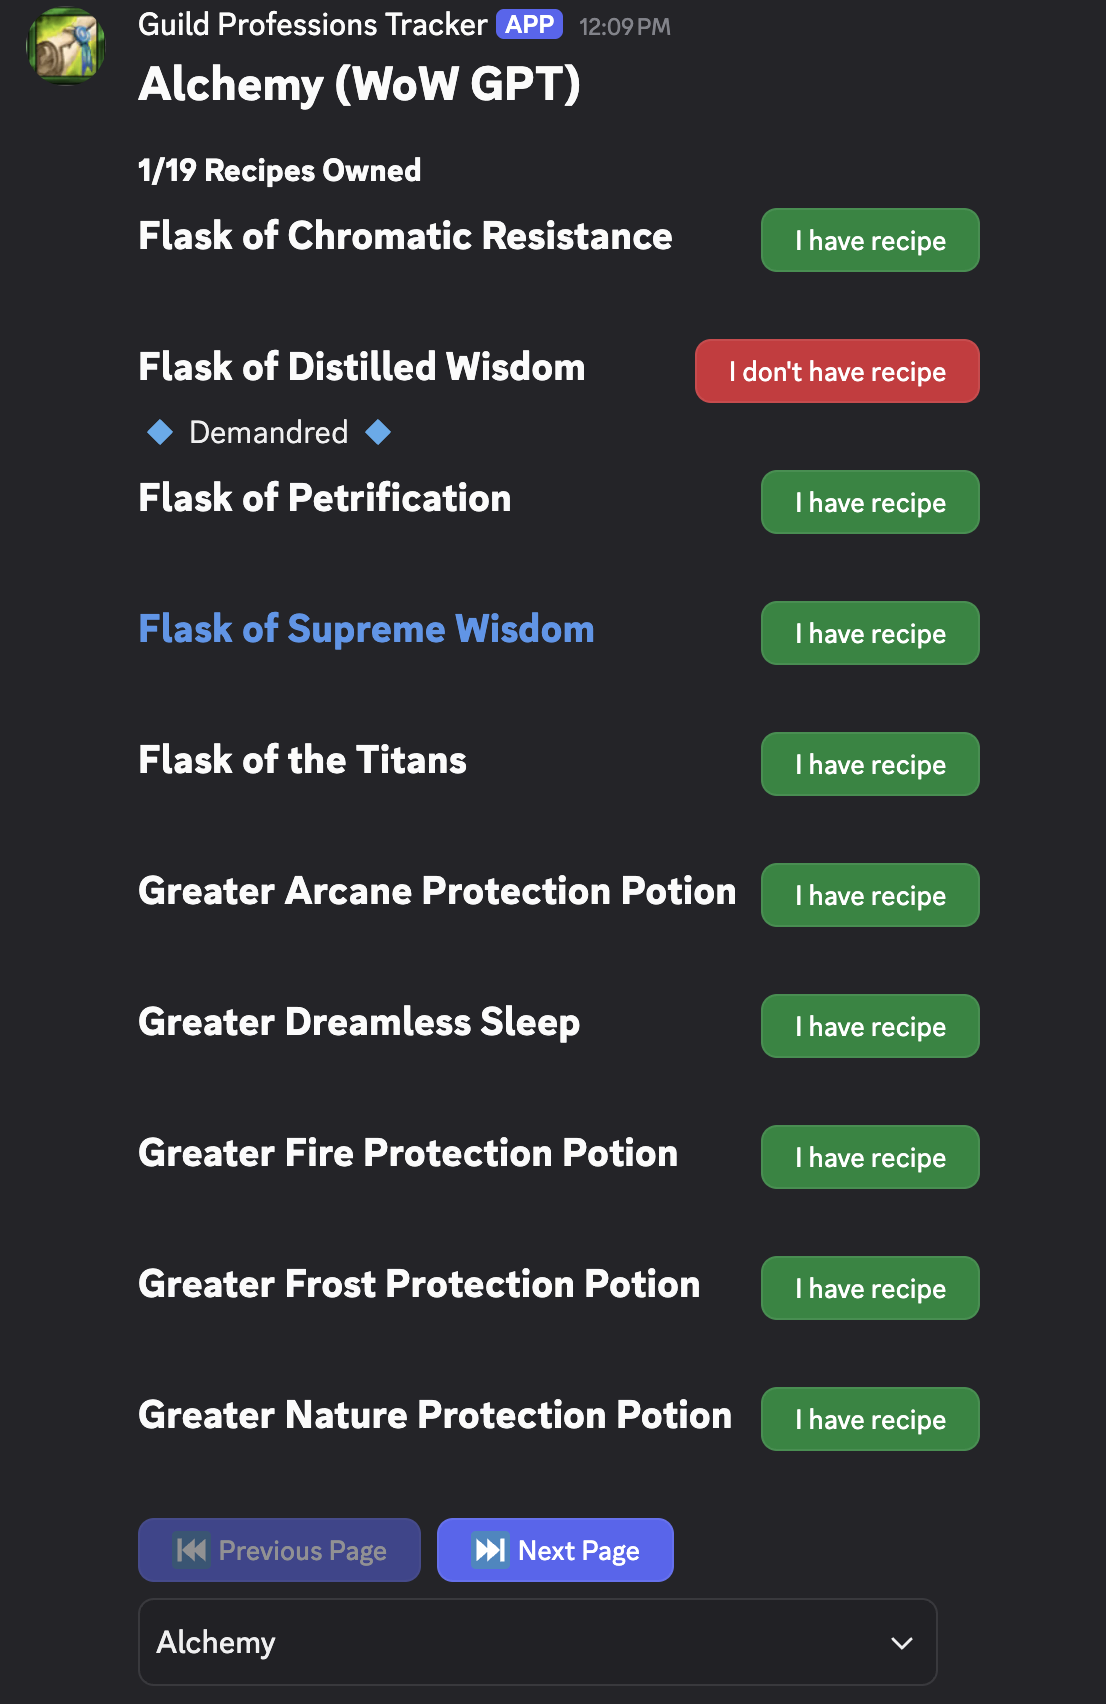
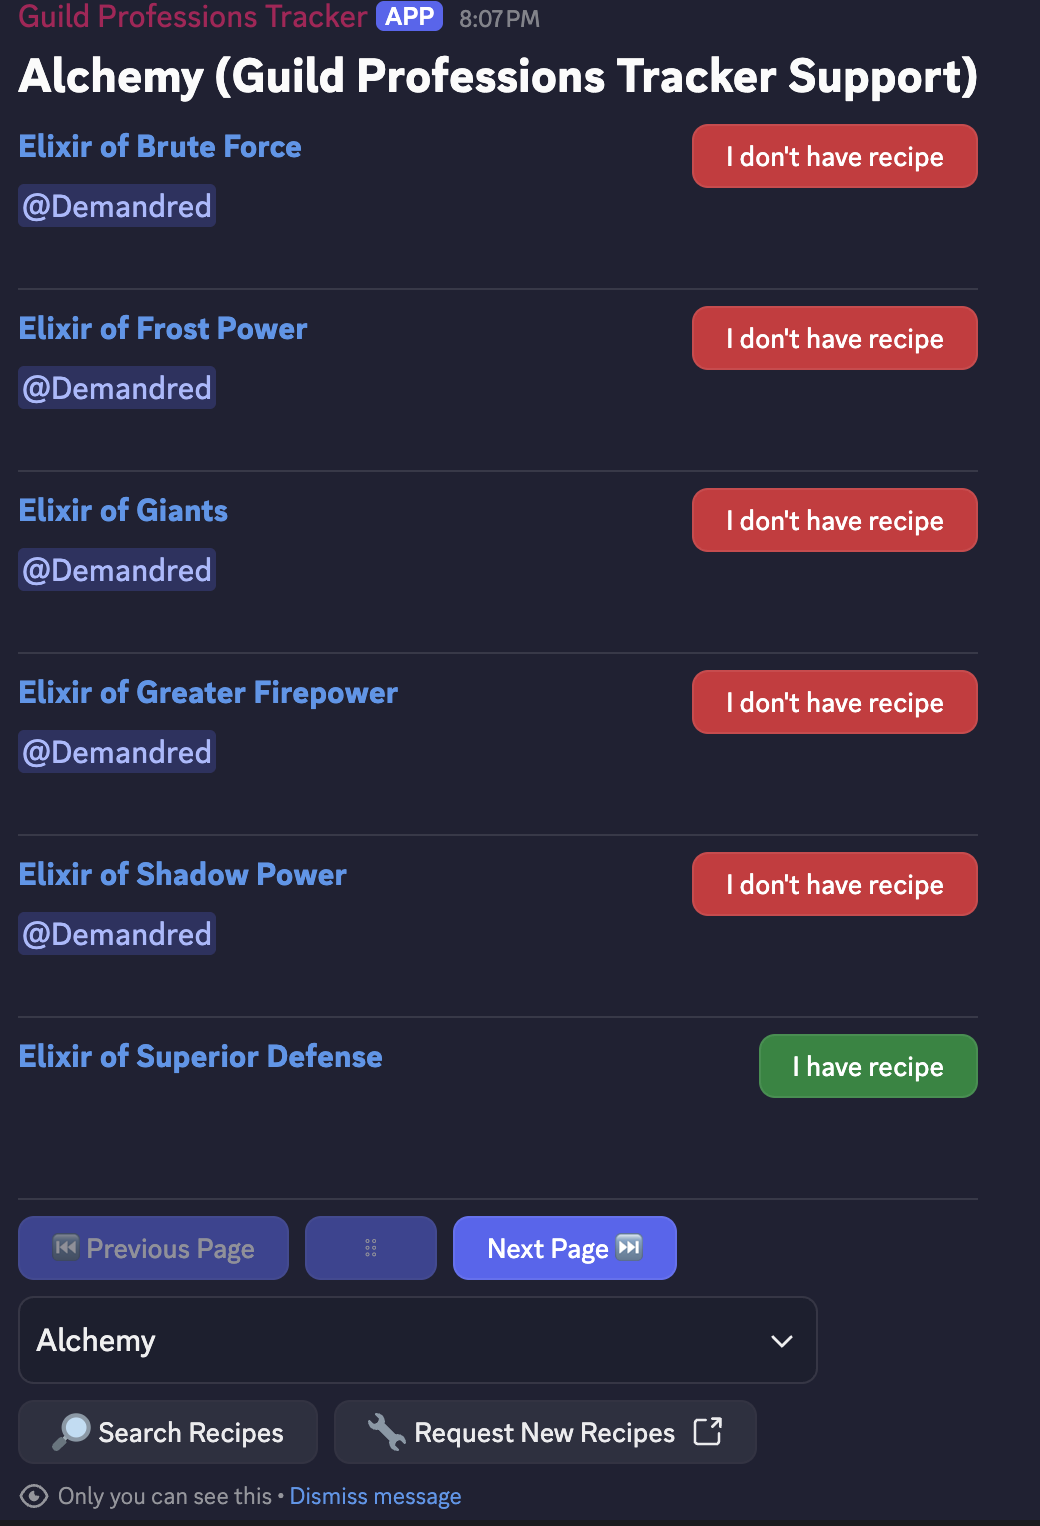
new screenshots & documentation for title and message updating

diff --git a/README.md b/README.md
@@ -20,6 +20,13 @@ You can define a role for interacting with the App via the <code>!setrole "role 
 
 To remove this restriction and restore default behavior, use <code>!resetrole</code>.  You will have to unset and set to assign a different role to the App.
 
+### Welcome Message Customization
+The <code>!recipes</code> command's message can be customized through two additional commands, <code>!settitle</code> and <code>!setmessage</code>.  The following uses will configure the recipes' message to read like the above screenshot:
+
+<code>!settitle Welcome to the Guild Professions Tracker!</code>
+
+<code>!setmessages Click a recipe button to open the guild ownership book. You can also enter any recipes you own.</code>
+
 ## Frequently Asked Questions
 
 #### Do I need to set my recipes for each server that I'm on?
